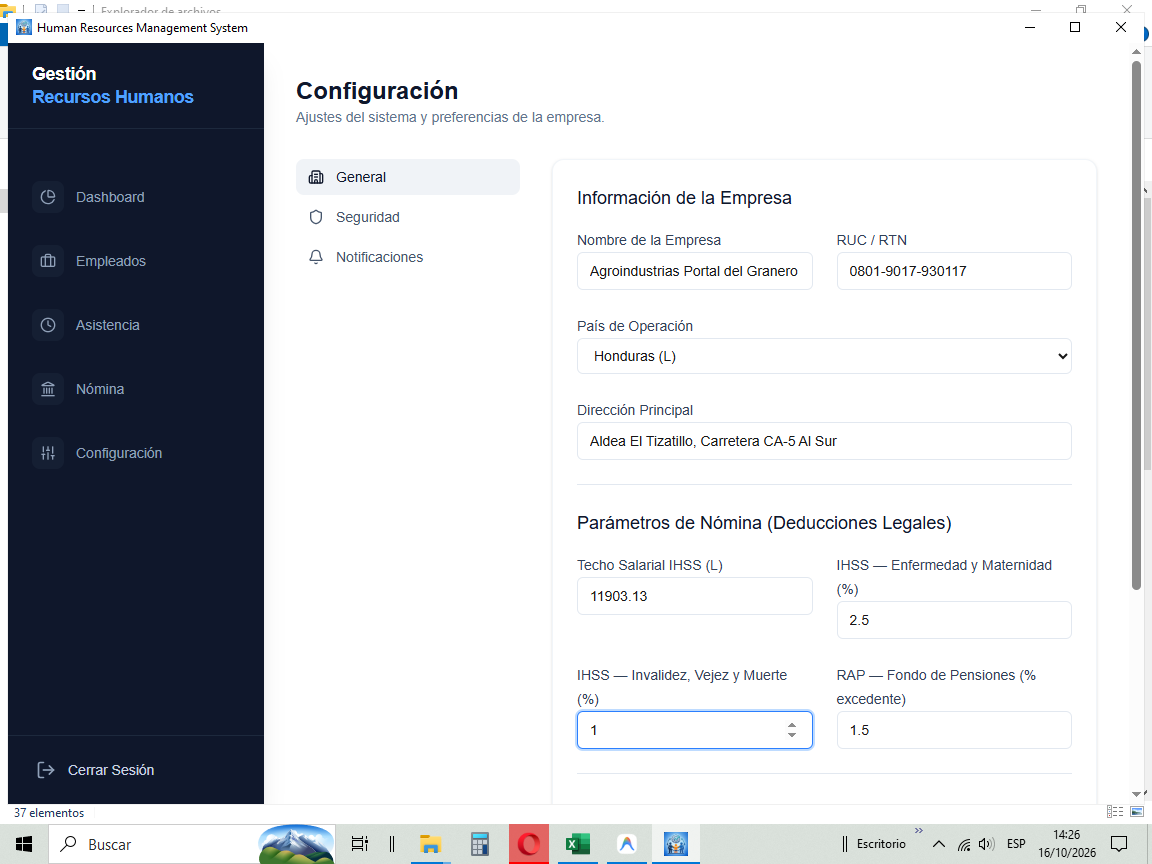
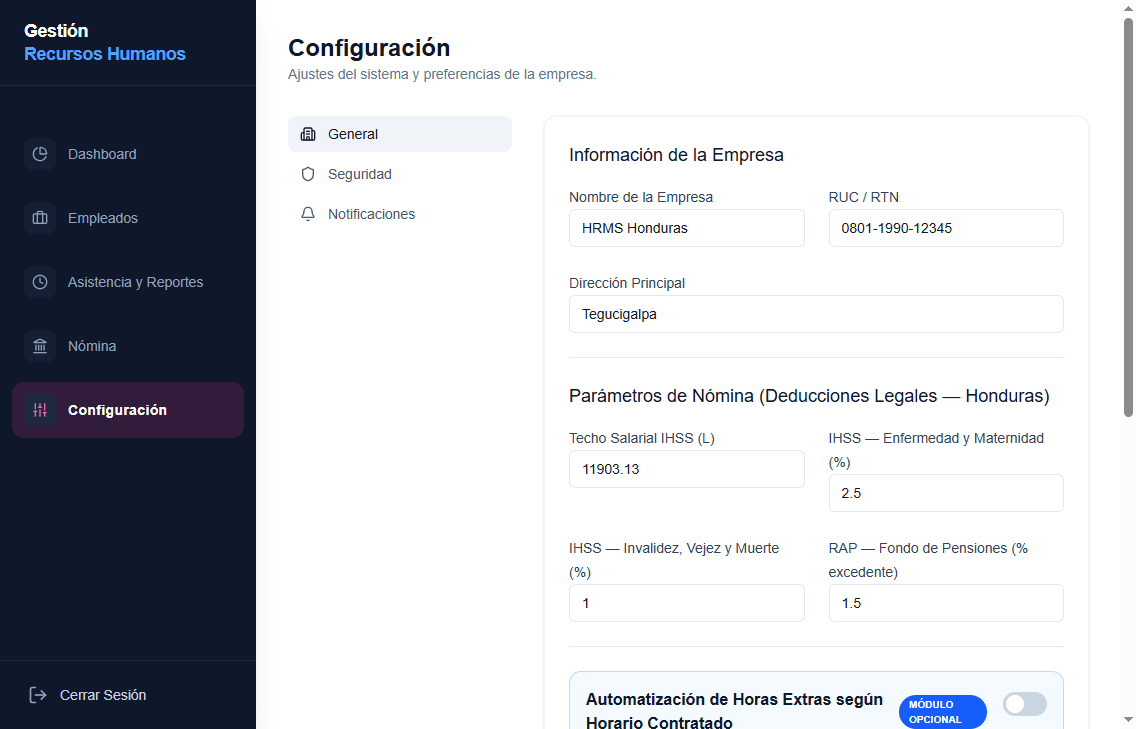
Sanitize screenshots and add 30-day free trial installer section

diff --git a/index.html b/index.html
@@ -76,21 +76,26 @@
       </a>
 
       <!-- Enlaces de Navegación (Escritorio) -->
-      <nav class="hidden md:flex items-center gap-6 text-sm font-semibold text-slate-600">
+      <nav class="hidden md:flex items-center gap-5 text-sm font-semibold text-slate-600">
         <a href="#inicio" class="hover:text-zkBlue transition-colors">Inicio</a>
         <a href="#actualizaciones" class="text-zkGreen font-bold hover:text-zkBlue transition-colors">★ Nuevas Funciones</a>
-        <a href="#beneficios" class="hover:text-zkBlue transition-colors">Módulos Explicados</a>
-        <a href="#capturas" class="hover:text-zkBlue transition-colors">Galería (15 Pantallas)</a>
+        <a href="#beneficios" class="hover:text-zkBlue transition-colors">Módulos</a>
+        <a href="#capturas" class="hover:text-zkBlue transition-colors">Galería (15)</a>
+        <a href="#prueba-gratis" class="px-3 py-1 rounded-full bg-amber-100 text-amber-900 font-extrabold hover:bg-amber-200 transition-colors">⬇ Prueba Gratis 30 Días</a>
         <a href="#precios" class="hover:text-zkBlue transition-colors">Precios</a>
         <a href="#faqs" class="hover:text-zkBlue transition-colors">FAQs</a>
       </nav>
 
       <!-- CTA Destacado -->
-      <div class="hidden md:flex items-center gap-3">
+      <div class="hidden md:flex items-center gap-2.5">
+        <a href="#prueba-gratis"
+           class="inline-flex items-center justify-center gap-1.5 px-4 py-2.5 rounded-lg text-xs font-extrabold text-zkBlue bg-zkBlue-light hover:bg-zkBlue hover:text-white transition-all">
+          <span>⬇ Instalador 30 Días</span>
+        </a>
         <a href="https://wa.me/50496447721?text=Hola%2C%20vi%20la%20p%C3%A1gina%20web%20actualizada%20de%20HRMS%20Honduras%20y%20me%20gustar%C3%ADa%20probar%20la%20demo%20para%20automatizar%20mi%20planilla%20y%20asistencia."
            target="_blank" rel="noopener noreferrer"
-           class="inline-flex items-center justify-center gap-2 px-5 py-2.5 rounded-lg text-sm font-bold text-white bg-zkGreen hover:bg-zkGreen-hover shadow-sm transition-all">
-          <span>Probar Demo</span>
+           class="inline-flex items-center justify-center gap-2 px-4 py-2.5 rounded-lg text-sm font-bold text-white bg-zkGreen hover:bg-zkGreen-hover shadow-sm transition-all">
+          <span>WhatsApp</span>
           <span class="text-xs bg-white/20 px-2 py-0.5 rounded">+504 9644-7721</span>
         </a>
       </div>
@@ -109,12 +114,17 @@
       <a href="#actualizaciones" class="block py-2 text-sm font-bold text-zkGreen">★ Nuevas Funciones 2026</a>
       <a href="#beneficios" class="block py-2 text-sm font-semibold text-slate-700 hover:text-zkBlue">Módulos Explicados</a>
       <a href="#capturas" class="block py-2 text-sm font-semibold text-slate-700 hover:text-zkBlue">Galería (15 Pantallas)</a>
+      <a href="#prueba-gratis" class="block py-2 text-sm font-extrabold text-amber-700">⬇ Descargar Prueba Gratis por 30 Días</a>
       <a href="#precios" class="block py-2 text-sm font-semibold text-slate-700 hover:text-zkBlue">Precios</a>
       <a href="#faqs" class="block py-2 text-sm font-semibold text-slate-700 hover:text-zkBlue">FAQs</a>
+      <a href="#prueba-gratis"
+         class="block w-full text-center py-2.5 rounded-lg text-sm font-bold text-white bg-zkBlue">
+        ⬇ Descargar Instalador (Prueba 30 Días)
+      </a>
       <a href="https://wa.me/50496447721?text=Hola%2C%20vi%20la%20p%C3%A1gina%20web%20de%20HRMS%20Honduras%20y%20me%20gustar%C3%ADa%20probar%20la%20demo."
          target="_blank" rel="noopener noreferrer"
          class="block w-full text-center py-2.5 rounded-lg text-sm font-bold text-white bg-zkGreen">
-        Probar Demo (WhatsApp 9644-7721)
+        WhatsApp Comercial (9644-7721)
       </a>
     </div>
   </header>
@@ -135,7 +145,7 @@
         <div class="lg:col-span-6 space-y-5">
           <div class="inline-flex items-center gap-2.5 px-3.5 py-1.5 rounded-full bg-zkGreen-light border border-zkGreen/30">
             <img src="./icon.png" alt="Icono HRMS Honduras" class="w-4 h-4 rounded-sm" />
-            <span class="text-xs font-bold uppercase tracking-wider text-zkGreen">Versión 2026 Actualizada • Auditoría de Marcas + Reportes Ejecutivos</span>
+            <span class="text-xs font-bold uppercase tracking-wider text-zkGreen">Versión 2026 Actualizada • Prueba Gratis de 30 Días Disponible</span>
           </div>
 
           <h1 class="text-2xl sm:text-3xl lg:text-[33px] font-extrabold text-zkBlue leading-[1.2] tracking-tight">
@@ -150,26 +160,26 @@
           <div class="bg-slate-50 border border-slate-200 rounded-xl p-3.5 space-y-1.5 text-xs text-slate-700">
             <div class="font-extrabold text-zkBlue uppercase tracking-wider text-[11px] flex items-center gap-1.5">
               <span class="inline-block w-2 h-2 rounded-full bg-zkGreen"></span>
-              Nuevas Actualizaciones Incluidas en el Sistema:
+              Nuevas Actualizaciones + Prueba Gratuita por 1 Mes:
             </div>
+            <p>✔ <strong>Prueba Gratis por 30 Días (1 Mes):</strong> Descargue el instalador para Windows, actívelo en 1 clic y si decide comprarlo después, adquiera su licencia conservando todos sus datos.</p>
             <p>✔ <strong>Auditoría de Marcas sin Entrada:</strong> Si un empleado no marca entrada, el día queda en espera hasta que RRHH <em>Justifique (Apruebe Pago)</em> o <em>Aplique Deducción Automática</em> en Nómina.</p>
             <p>✔ <strong>Centro de 5 Reportes Ejecutivos:</strong> Horas Extras por empleado, Permisos, Vacaciones, Tardanzas y Ausencias (Exportables a <strong>Excel CSV y PDF Oficial</strong>).</p>
-            <p>✔ <strong>Horarios Contratados y Carnets PVC/QR:</strong> Cálculo automático opcional de horas extras (+25%, +50%, +75%, +100%) e impresión de pliego de carnets con fotografía.</p>
           </div>
 
           <!-- Botones de Acción Principales -->
-          <div class="pt-1 flex flex-col sm:flex-row gap-4">
+          <div class="pt-1 flex flex-col sm:flex-row gap-3.5">
+            <a href="#prueba-gratis"
+               class="inline-flex items-center justify-center gap-2 px-6 py-4 rounded-xl text-sm sm:text-base font-extrabold text-white bg-zkGreen hover:bg-zkGreen-hover shadow-md hover:shadow-lg transition-all">
+              <svg class="w-5 h-5" fill="none" stroke="currentColor" stroke-width="2.2" viewBox="0 0 24 24">
+                <path stroke-linecap="round" stroke-linejoin="round" d="M4 16v2a2 2 0 002 2h12a2 2 0 002-2v-2M7 10l5 5m0 0l5-5m-5 5V3"></path>
+              </svg>
+              Descargar Prueba Gratis (30 Días)
+            </a>
             <a href="https://wa.me/50496447721?text=Hola%2C%20vi%20la%20p%C3%A1gina%20web%20de%20HRMS%20Honduras%20con%20las%20nuevas%20actualizaciones%20y%20me%20gustar%C3%ADa%20agendar%20una%20demo."
                target="_blank" rel="noopener noreferrer"
-               class="inline-flex items-center justify-center gap-2.5 px-7 py-4 rounded-xl text-base font-bold text-white bg-zkGreen hover:bg-zkGreen-hover shadow-md hover:shadow-lg transition-all">
-              <svg class="w-5 h-5 fill-current" viewBox="0 0 24 24">
-                <path d="M12.031 6.172c-3.181 0-5.767 2.586-5.768 5.766-.001 1.298.38 2.27 1.019 3.287l-.582 2.128 2.182-.573c.978.58 1.911.928 3.145.929 3.178 0 5.767-2.587 5.768-5.766.001-3.187-2.575-5.77-5.764-5.771zm3.392 8.244c-.144.405-.837.774-1.17.824-.299.045-.677.063-1.092-.069-.252-.08-.575-.187-.988-.365-1.739-.751-2.874-2.502-2.961-2.617-.087-.116-.708-.94-.708-1.793s.448-1.273.607-1.446c.159-.173.346-.217.462-.217l.332.006c.106.005.249-.04.39.298.144.347.491 1.2.534 1.287.043.087.072.188.014.304-.058.116-.087.188-.173.289l-.26.304c-.087.086-.177.18-.076.354.101.174.449.741.964 1.201.662.591 1.221.774 1.394.86s.274.072.376-.043c.101-.116.433-.506.549-.68.116-.173.231-.145.39-.087s1.011.477 1.184.564.289.13.332.202c.045.072.045.419-.1.824z"/>
-              </svg>
+               class="inline-flex items-center justify-center gap-2 px-6 py-4 rounded-xl text-sm sm:text-base font-bold text-white bg-zkBlue hover:bg-zkBlue-dark shadow-md transition-all">
               Agendar Demo (9644-7721)
-            </a>
-            <a href="#beneficios"
-               class="inline-flex items-center justify-center px-7 py-4 rounded-xl text-base font-bold text-white bg-zkBlue hover:bg-zkBlue-dark shadow-md transition-all">
-              Explorar Módulos
             </a>
           </div>
         </div>
@@ -718,6 +728,127 @@
   </section>
 
   <!-- ==========================================
+       3.8 DESCARGA DE INSTALADOR DE PRUEBA POR 30 DÍAS (1 MES)
+       ========================================== -->
+  <section id="prueba-gratis" class="bg-gradient-to-br from-zkBlue via-zkBlue-dark to-slate-900 text-white py-20 border-b border-zkBlue-dark relative overflow-hidden">
+    <div class="max-w-7xl mx-auto px-4 sm:px-6 lg:px-8 relative z-10">
+      <div class="grid grid-cols-1 lg:grid-cols-12 gap-10 items-center">
+
+        <!-- Explicación del Modelo de Prueba de 1 Mes + Compra de Licencia -->
+        <div class="lg:col-span-7 space-y-6">
+          <div class="inline-flex items-center gap-2 px-3.5 py-1.5 rounded-full bg-amber-400 text-slate-950 text-xs font-black uppercase tracking-wider shadow">
+            <span>🎁 Prueba Gratis por 30 Días (1 Mes Completo) • Windows 10 / 11</span>
+          </div>
+
+          <h2 class="text-2xl sm:text-3xl lg:text-4xl font-extrabold leading-tight">
+            Descargue el Instalador de Prueba por 1 Mes y Compruebe HRMS Honduras en su Empresa Antes de Comprar
+          </h2>
+
+          <p class="text-blue-100 text-sm sm:text-base leading-relaxed">
+            Sabemos que la mejor forma de confiar en un sistema de Recursos Humanos y Planilla es probándolo con sus propios datos. Descargue el instalador oficial para Windows, úselo durante <strong>30 días completos con todas las funciones habilitadas</strong> y, cuando decida adquirirlo, <strong>compre su licencia comercial sin perder ni un solo registro</strong>.
+          </p>
+
+          <!-- 3 Pasos de Funcionamiento -->
+          <div class="grid grid-cols-1 sm:grid-cols-3 gap-4 pt-2">
+            <div class="bg-white/10 backdrop-blur rounded-2xl p-4 border border-white/15">
+              <div class="w-8 h-8 rounded-lg bg-zkGreen text-white font-black text-sm flex items-center justify-center mb-2.5">1</div>
+              <h3 class="text-sm font-extrabold text-white">Descargue e Instale en su PC</h3>
+              <p class="text-xs text-blue-100 mt-1 leading-relaxed">
+                Ejecute el instalador <code>.exe</code> en cualquier computadora con Windows 10 u 11 (64 bits). Opera 100% Offline.
+              </p>
+            </div>
+
+            <div class="bg-white/10 backdrop-blur rounded-2xl p-4 border border-white/15">
+              <div class="w-8 h-8 rounded-lg bg-amber-400 text-slate-950 font-black text-sm flex items-center justify-center mb-2.5">2</div>
+              <h3 class="text-sm font-extrabold text-white">Active 30 Días en 1 Clic</h3>
+              <p class="text-xs text-blue-100 mt-1 leading-relaxed">
+                Al abrir el programa, pulse <strong>"Activar Prueba Gratuita por 30 Días"</strong>. Ingrese sus empleados, carnets QR y planillas.
+              </p>
+            </div>
+
+            <div class="bg-white/10 backdrop-blur rounded-2xl p-4 border border-white/15">
+              <div class="w-8 h-8 rounded-lg bg-sky-400 text-slate-950 font-black text-sm flex items-center justify-center mb-2.5">3</div>
+              <h3 class="text-sm font-extrabold text-white">Active su Licencia Sin Perder Datos</h3>
+              <p class="text-xs text-blue-100 mt-1 leading-relaxed">
+                Si desea comprarlo al finalizar el mes, adquiera su clave Semestral, Anual o Perpetua y <strong>conserve todos sus datos intactos</strong>.
+              </p>
+            </div>
+          </div>
+
+          <div class="flex flex-wrap items-center gap-4 text-xs text-blue-200 pt-1">
+            <span class="flex items-center gap-1.5"><strong class="text-zkGreen">✓</strong> Incluye base de datos de demostración editable</span>
+            <span class="flex items-center gap-1.5"><strong class="text-zkGreen">✓</strong> Candado único por equipo (HWID)</span>
+            <span class="flex items-center gap-1.5"><strong class="text-zkGreen">✓</strong> Soporte directo por WhatsApp: +504 9644-7721</span>
+          </div>
+        </div>
+
+        <!-- Tarjeta de Descarga del Instalador (.EXE) -->
+        <div class="lg:col-span-5">
+          <div class="bg-white text-slate-800 rounded-2xl p-6 sm:p-8 shadow-2xl border-2 border-zkGreen">
+            <div class="flex items-center justify-between pb-4 border-b border-slate-200">
+              <div class="flex items-center gap-3">
+                <img src="./icon.png" alt="Logo HRMS Honduras" class="w-11 h-11 rounded-xl shadow-sm" />
+                <div>
+                  <span class="text-[11px] font-extrabold uppercase tracking-wider text-zkGreen">Instalador Oficial Windows</span>
+                  <h3 class="text-lg font-extrabold text-zkBlue leading-tight">HRMS Honduras v2026</h3>
+                </div>
+              </div>
+              <span class="px-2.5 py-1 rounded-full text-[11px] font-extrabold bg-emerald-100 text-emerald-800">
+                30 Días Gratis
+              </span>
+            </div>
+
+            <form id="trial-download-form" class="space-y-3.5 mt-4">
+              <p class="text-xs text-slate-600 leading-relaxed">
+                Ingrese sus datos para iniciar la <strong>descarga directa del instalador (`.exe`)</strong> y recibir soporte gratuito de configuración durante su mes de prueba:
+              </p>
+
+              <div>
+                <label for="trial-nombre" class="block text-[11px] font-bold uppercase text-slate-600 mb-1">Su Nombre *</label>
+                <input type="text" id="trial-nombre" required placeholder="Ej. Lic. Ana Pineda"
+                       class="w-full px-3.5 py-2.5 rounded-lg border border-slate-300 text-sm focus:outline-none focus:ring-2 focus:ring-zkBlue" />
+              </div>
+
+              <div>
+                <label for="trial-empresa" class="block text-[11px] font-bold uppercase text-slate-600 mb-1">Empresa o Negocio *</label>
+                <input type="text" id="trial-empresa" required placeholder="Ej. Distribuidora Comercial S. de R.L."
+                       class="w-full px-3.5 py-2.5 rounded-lg border border-slate-300 text-sm focus:outline-none focus:ring-2 focus:ring-zkBlue" />
+              </div>
+
+              <div>
+                <label for="trial-whatsapp" class="block text-[11px] font-bold uppercase text-slate-600 mb-1">WhatsApp / Teléfono *</label>
+                <input type="tel" id="trial-whatsapp" required placeholder="+504 9999-9999"
+                       class="w-full px-3.5 py-2.5 rounded-lg border border-slate-300 text-sm focus:outline-none focus:ring-2 focus:ring-zkBlue" />
+              </div>
+
+              <button type="submit"
+                      class="w-full py-4 px-5 rounded-xl text-sm sm:text-base font-extrabold text-white bg-zkGreen hover:bg-zkGreen-hover shadow-lg transition-all flex items-center justify-center gap-2 cursor-pointer">
+                <svg class="w-5 h-5" fill="none" stroke="currentColor" stroke-width="2.4" viewBox="0 0 24 24">
+                  <path stroke-linecap="round" stroke-linejoin="round" d="M4 16v2a2 2 0 002 2h12a2 2 0 002-2v-2M7 10l5 5m0 0l5-5m-5 5V3"></path>
+                </svg>
+                <span>Descargar Instalador (.EXE) — 1 Mes Gratis</span>
+              </button>
+            </form>
+
+            <div class="mt-4 pt-3 border-t border-slate-100 text-center space-y-1.5">
+              <a id="direct-exe-link"
+                 href="https://github.com/xandergonz1991-ops/HRMS-Contol/releases/download/v2026.1/HRMS-Honduras-Setup-0.1.0.exe"
+                 target="_blank" rel="noopener noreferrer"
+                 class="inline-flex items-center gap-1.5 text-xs font-extrabold text-zkBlue hover:text-zkGreen underline">
+                <span>⬇ Descarga directa inmediata para Windows 10 / 11 (64-bit)</span>
+              </a>
+              <p class="text-[11px] text-slate-500">
+                ¿Ya terminó su mes de prueba? <a href="#precios" class="font-bold text-zkGreen hover:underline">Vea los planes de licencia abajo ↓</a>
+              </p>
+            </div>
+          </div>
+        </div>
+
+      </div>
+    </div>
+  </section>
+
+  <!-- ==========================================
        4. MATRIZ DE PRECIOS TRANSPARENTE
        ========================================== -->
   <section id="precios" class="bg-white py-20">
@@ -922,10 +1053,26 @@
       </div>
 
       <div class="space-y-4">
-        <!-- FAQ 1: Auditoría de marcas sin entrada -->
-        <details class="group bg-white rounded-xl border border-slate-200 p-6 open:shadow-sm transition-all" open>
+        <!-- FAQ 1: Prueba gratuita de 30 días -->
+        <details class="group bg-white rounded-xl border-2 border-zkGreen/50 p-6 open:shadow-sm transition-all" open>
           <summary class="flex cursor-pointer items-center justify-between text-base font-bold text-zkBlue list-none">
-            <span>1. ¿Cómo funciona la nueva Auditoría de Marcas cuando un empleado no marca entrada?</span>
+            <span>1. ¿Cómo funciona la Prueba Gratis de 30 Días (1 Mes) y qué pasa con mis datos cuando compro la licencia?</span>
+            <span class="ml-4 text-zkGreen group-open:rotate-45 transition-transform text-xl font-extrabold">+</span>
+          </summary>
+          <div class="mt-3 text-sm text-slate-600 leading-relaxed space-y-2">
+            <p>
+              Al descargar e instalar el software en su computadora con Windows, verá el botón <strong>"🎁 Activar Prueba Gratuita por 30 Días"</strong>. Con un clic el sistema habilita todas las funciones durante 1 mes completo asociado al código único de su equipo (`HWID`). Si al concluir el mes (o en cualquier momento) decide comprar su licencia Semestral, Anual o Perpetua, simplemente nos envía su código `HWID` por WhatsApp al <strong>+504 9644-7721</strong>, pega la clave recibida y <strong>conserva intactos todos los empleados, fotos, asistencias y planillas que haya registrado</strong>.
+            </p>
+            <a href="#prueba-gratis" class="inline-block text-xs font-bold text-zkGreen hover:underline">
+              Ir a la sección de Descarga de Prueba por 30 Días →
+            </a>
+          </div>
+        </details>
+
+        <!-- FAQ 2: Auditoría de marcas sin entrada -->
+        <details class="group bg-white rounded-xl border border-slate-200 p-6 open:shadow-sm transition-all">
+          <summary class="flex cursor-pointer items-center justify-between text-base font-bold text-zkBlue list-none">
+            <span>2. ¿Cómo funciona la nueva Auditoría de Marcas cuando un empleado no marca entrada?</span>
             <span class="ml-4 text-zkGreen group-open:rotate-45 transition-transform text-xl font-extrabold">+</span>
           </summary>
           <div class="mt-3 text-sm text-slate-600 leading-relaxed space-y-2">
@@ -938,10 +1085,10 @@
           </div>
         </details>
 
-        <!-- FAQ 2: Reportes Ejecutivos -->
+        <!-- FAQ 3: Reportes Ejecutivos -->
         <details class="group bg-white rounded-xl border border-slate-200 p-6 open:shadow-sm transition-all">
           <summary class="flex cursor-pointer items-center justify-between text-base font-bold text-zkBlue list-none">
-            <span>2. ¿Qué reportes puedo exportar a Excel o PDF desde el Centro de Reportes Ejecutivos?</span>
+            <span>3. ¿Qué reportes puedo exportar a Excel o PDF desde el Centro de Reportes Ejecutivos?</span>
             <span class="ml-4 text-zkGreen group-open:rotate-45 transition-transform text-xl font-extrabold">+</span>
           </summary>
           <div class="mt-3 text-sm text-slate-600 leading-relaxed space-y-2">
@@ -954,10 +1101,10 @@
           </div>
         </details>
 
-        <!-- FAQ 3: Planilla Quincenal / Mensual e IHSS/RAP -->
+        <!-- FAQ 4: Planilla Quincenal / Mensual e IHSS/RAP -->
         <details class="group bg-white rounded-xl border border-slate-200 p-6 open:shadow-sm transition-all">
           <summary class="flex cursor-pointer items-center justify-between text-base font-bold text-zkBlue list-none">
-            <span>3. ¿Cómo funciona el cálculo Quincenal (50%) vs. Mensual (100%) y la actualización de techos IHSS/RAP?</span>
+            <span>4. ¿Cómo funciona el cálculo Quincenal (50%) vs. Mensual (100%) y la actualización de techos IHSS/RAP?</span>
             <span class="ml-4 text-zkGreen group-open:rotate-45 transition-transform text-xl font-extrabold">+</span>
           </summary>
           <div class="mt-3 text-sm text-slate-600 leading-relaxed space-y-2">
@@ -970,10 +1117,10 @@
           </div>
         </details>
 
-        <!-- FAQ 4: Requisitos y Privacidad Offline -->
+        <!-- FAQ 5: Requisitos y Privacidad Offline -->
         <details class="group bg-white rounded-xl border border-slate-200 p-6 open:shadow-sm transition-all">
           <summary class="flex cursor-pointer items-center justify-between text-base font-bold text-zkBlue list-none">
-            <span>4. ¿Qué requisitos necesita mi PC y cómo se garantiza la privacidad al ser 100% Offline?</span>
+            <span>5. ¿Qué requisitos necesita mi PC y cómo se garantiza la privacidad al ser 100% Offline?</span>
             <span class="ml-4 text-zkGreen group-open:rotate-45 transition-transform text-xl font-extrabold">+</span>
           </summary>
           <div class="mt-3 text-sm text-slate-600 leading-relaxed space-y-2">
@@ -1153,6 +1300,36 @@
     document.addEventListener('keydown', (e) => {
       if (e.key === 'Escape') closeLightbox();
     });
+
+    // Descarga del Instalador de Prueba por 30 Días + Registro del Prospecto en WhatsApp
+    const trialForm = document.getElementById('trial-download-form');
+    if (trialForm) {
+      trialForm.addEventListener('submit', function(e) {
+        e.preventDefault();
+        const nombre = document.getElementById('trial-nombre').value.trim();
+        const empresa = document.getElementById('trial-empresa').value.trim();
+        const whatsapp = document.getElementById('trial-whatsapp').value.trim();
+        const installerUrl = 'https://github.com/xandergonz1991-ops/HRMS-Contol/releases/download/v2026.1/HRMS-Honduras-Setup-0.1.0.exe';
+
+        // Iniciar descarga del instalador .EXE
+        const dlLink = document.createElement('a');
+        dlLink.href = installerUrl;
+        dlLink.target = '_blank';
+        dlLink.rel = 'noopener noreferrer';
+        document.body.appendChild(dlLink);
+        dlLink.click();
+        document.body.removeChild(dlLink);
+
+        // Notificar al WhatsApp comercial para seguimiento del mes de prueba
+        const msg = `Hola, acabo de descargar el *Instalador de Prueba Gratis por 30 Días* de *HRMS Honduras*.%0A%0A` +
+                    `• *Nombre:* ${encodeURIComponent(nombre)}%0A` +
+                    `• *Empresa:* ${encodeURIComponent(empresa)}%0A` +
+                    `• *WhatsApp:* ${encodeURIComponent(whatsapp)}`;
+        setTimeout(() => {
+          window.open(`https://wa.me/50496447721?text=${msg}`, '_blank');
+        }, 400);
+      });
+    }
 
     // Envío del formulario directo al WhatsApp +504 9644-7721
     const leadForm = document.getElementById('lead-form');

diff --git a/marketing.html b/marketing.html
@@ -213,7 +213,7 @@ Con HRMS Honduras automatizas el control de personal y la planilla de tu empresa
 💼 Planes desde L. 3,900 o Paquetes "Llave en Mano" (Instalado + Configurado + Capacitado).
 
 🌐 Mira las pantallas y precios aquí:
-https://xandergonz1991-ops.github.io/HRMS-Contol/
+https://hrms-honduras.surge.sh/
 
 📲 Solicita tu demostración por WhatsApp: +504 9644-7721</pre>
           </div>
@@ -236,7 +236,7 @@ Presentamos HRMS Honduras (Edición 2026): el sistema de escritorio Offline-Firs
 🔹 Integración Biométrica y Pliego de Carnets QR: Descarga de marcajes desde relojes ZKTeco vía TCP/IP (Puerto 4370) e impresión de gafetes corporativos con foto.
 
 📄 Descargue o revise nuestra Propuesta Comercial B2B en línea:
-https://xandergonz1991-ops.github.io/HRMS-Contol/cotizacion.html
+https://hrms-honduras.surge.sh/cotizacion.html
 
 🤝 ¿Es usted Contador Independiente o Consultor de RRHH? Escríbanos al +504 9644-7721 para conocer nuestro programa de comisiones por implementación.</pre>
           </div>
@@ -260,10 +260,10 @@ Ayudamos a empresas de 10 a 75 empleados en Honduras a automatizar su *Control d
 • Funciona 100% sin internet en su PC con Windows.
 
 🌐 *Vea el catálogo y las 15 capturas reales aquí:*
-https://xandergonz1991-ops.github.io/HRMS-Contol/
+https://hrms-honduras.surge.sh/
 
 📄 *Cotización formal lista para imprimir:*
-https://xandergonz1991-ops.github.io/HRMS-Contol/cotizacion.html
+https://hrms-honduras.surge.sh/cotizacion.html
 
 ¿Le gustaría que agendemos una demostración de 10 minutos sin compromiso?</pre>
           </div>
